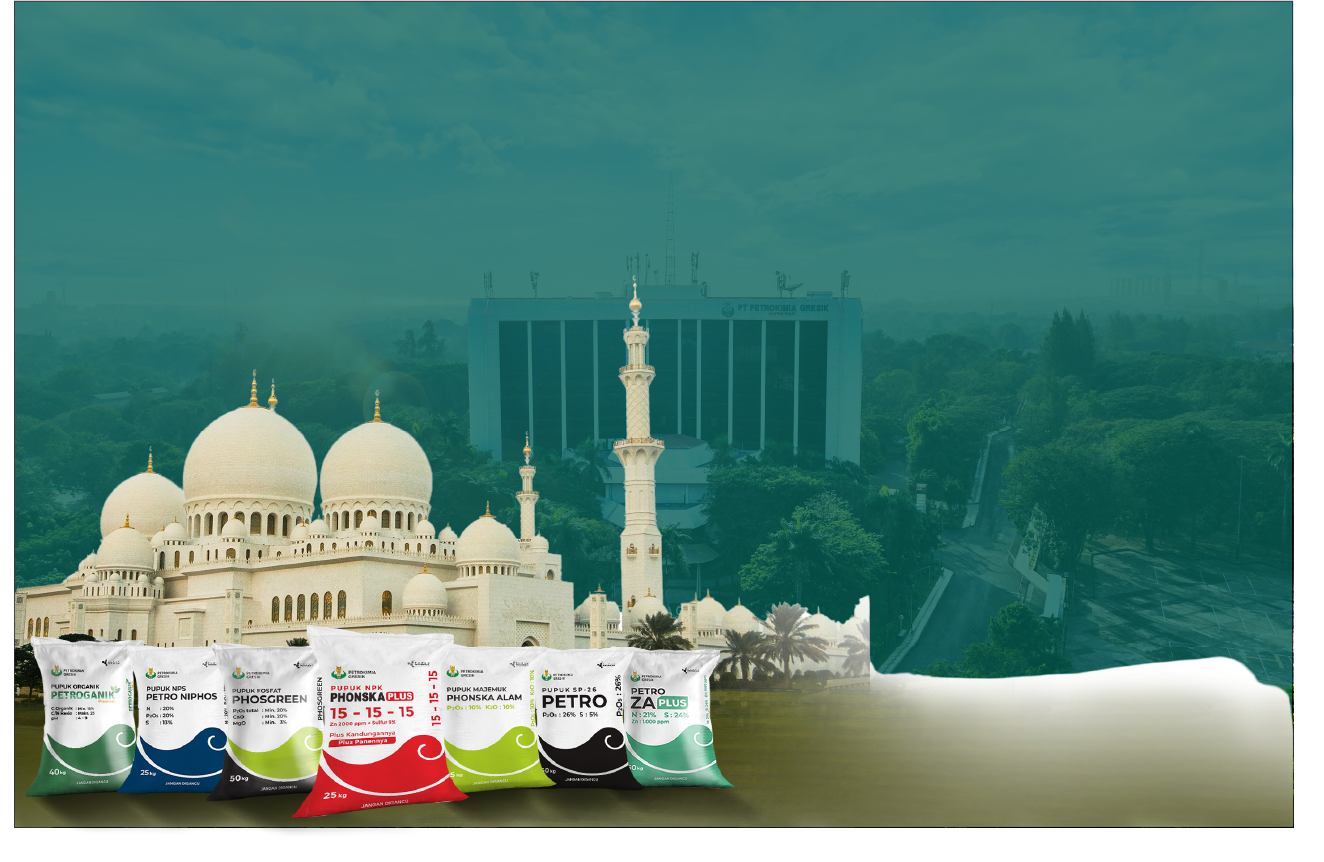
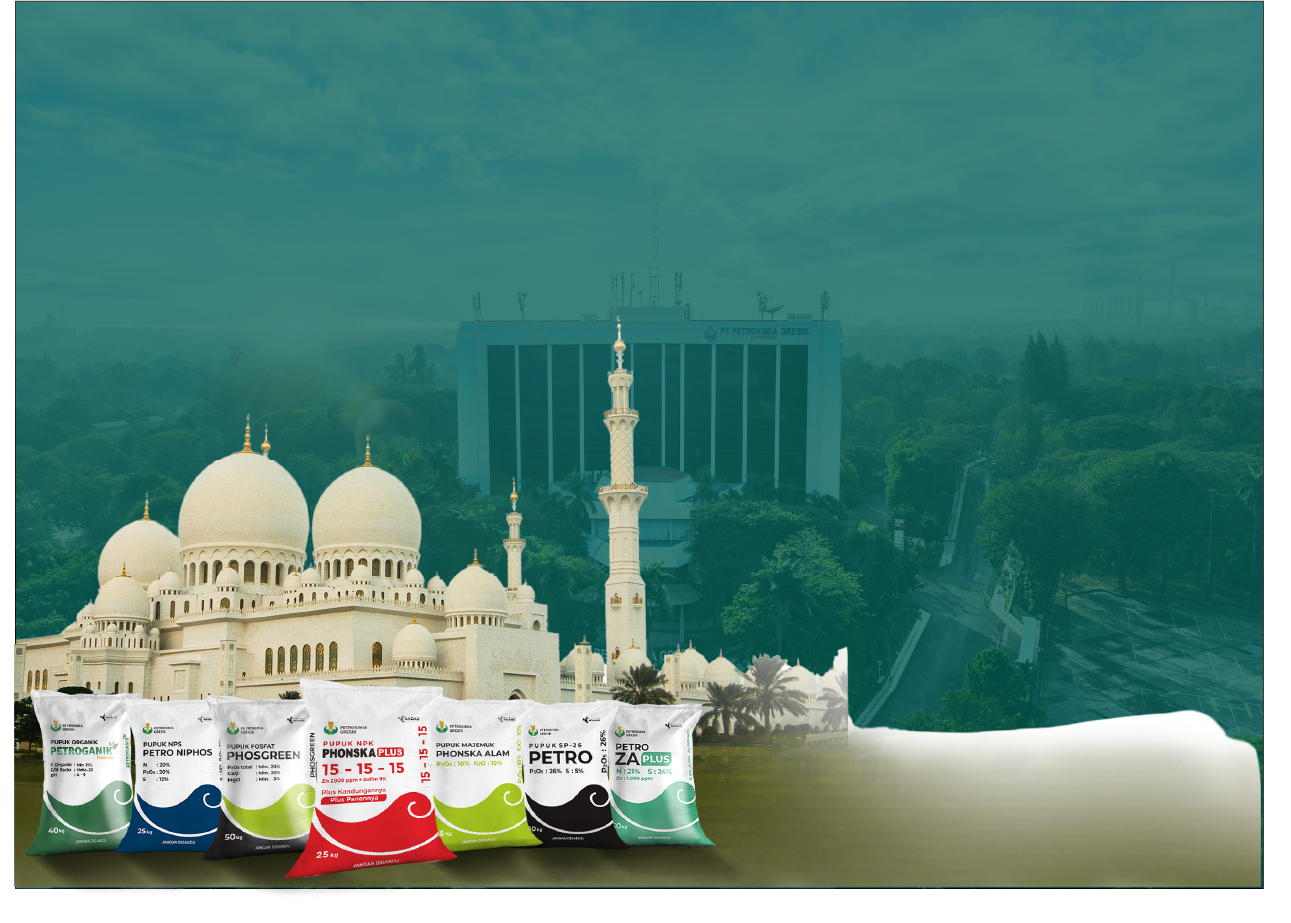
background

diff --git a/pages/calendar/detail.tsx b/pages/calendar/detail.tsx
@@ -122,8 +122,8 @@ export default function Demo({ data, setModal }: any) {
   const selectedScheduleImage =
     scheduleImage[Math.min(Math.max(page - 1, 0), scheduleImage.length - 1)];
   return (
-  <BackgroundImage src="/background4.png" pr={{xl:"1%", lg:"1%", base:"0%"}}>
-      <Container bg={{xl:"transparent", base:"#005E6A"}} fluid size="responsive">
+  <BackgroundImage src="/background5.png" pr={{xl:"4%", lg:"1%", base:"0%"}}>
+      <Container bg={{xl:"transparent", base:"#005E6A"}} fluid>
             <Container
               pos="relative"
               ml={{ xl: "30%", lg: "25%", base: "10%" }}
@@ -167,8 +167,8 @@ export default function Demo({ data, setModal }: any) {
             </Container>
             <Container w="100%">
               
-              <Grid pt="20px">
-                <Grid.Col span={{ xl: 6, lg: 6, base: 12 }}>
+              <Grid pt="20px" mr={{xl:"0%", lg:"0%", base:"0%"}}>
+                <Grid.Col span={{ xl: 5, lg: 6, base: 12 }}>
                   <Container
                     mt={{ xl: "30%", lg: "30%", base: "5%" }}
                     mr={{ xl: "20%", lg: "20%" }}
@@ -180,7 +180,7 @@ export default function Demo({ data, setModal }: any) {
                     /> */}
                   </Container>
                 </Grid.Col>
-                <Grid.Col span={{ xl: 6, lg: 6, base: 12 }} ml={{xl:"80%"}}>
+                <Grid.Col span={{ xl: 7, lg: 6, base: 12 }} ml={{xl:"75%", lg:"75%", base:"0%"}}>
                   <Container ml={{ xl: "17%", lg: "15%", base: "5%" }}>
                     <Image
                       w={{ xl: "80%", lg: "75%", base: "95%" }}
@@ -206,7 +206,7 @@ export default function Demo({ data, setModal }: any) {
                       (dan sekitarnya)
                     </Text>
                   </Container>
-                  <Container mt="10px">
+                  <Container mt={{xl:"10%", base:"10px", lg:"10px"}}>
                     <Flex justify="center" direction={"column"}>
                       <div
                         style={{ display: "flex", borderBottom: "3px solid yellow" }}

diff --git a/pages/calendar/index.tsx b/pages/calendar/index.tsx
@@ -138,7 +138,7 @@ export default function Page() {
             <Text
               c="#FFD700"
               ta="left"
-              ml={{ base: "25%", lg: "10%", xl: "40%", md:"10%" }}
+              ml={{ base: "25%", lg: "10%", xl: "38%", md:"10%" }}
               fw={700}
               fz={{ xl: "28px", base: "19px", lg: "20pt" }}
             >
@@ -148,7 +148,7 @@ export default function Page() {
               pt={{ xl: "2%", base: "0%", lg: "2%" }}
               c="#FFD700"
               ta="left"
-              ml={{ base: "27%", lg: "10%", xl: "43%", md:"10%" }}
+              ml={{ base: "27%", lg: "10%", xl: "41%", md:"10%" }}
               fw={300}
               fz={{ xl: "28px", base: "19px", lg: "20pt" }}
             >
